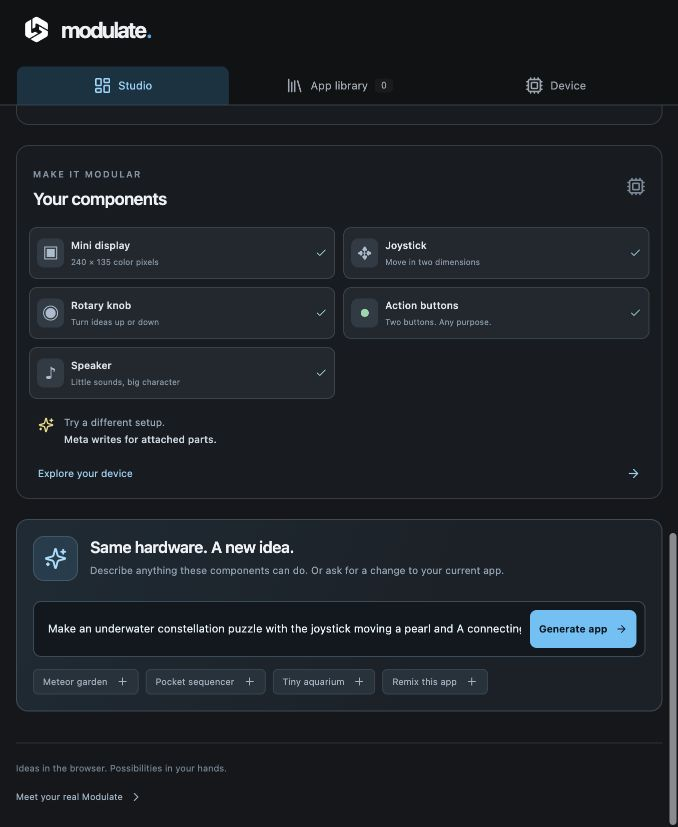
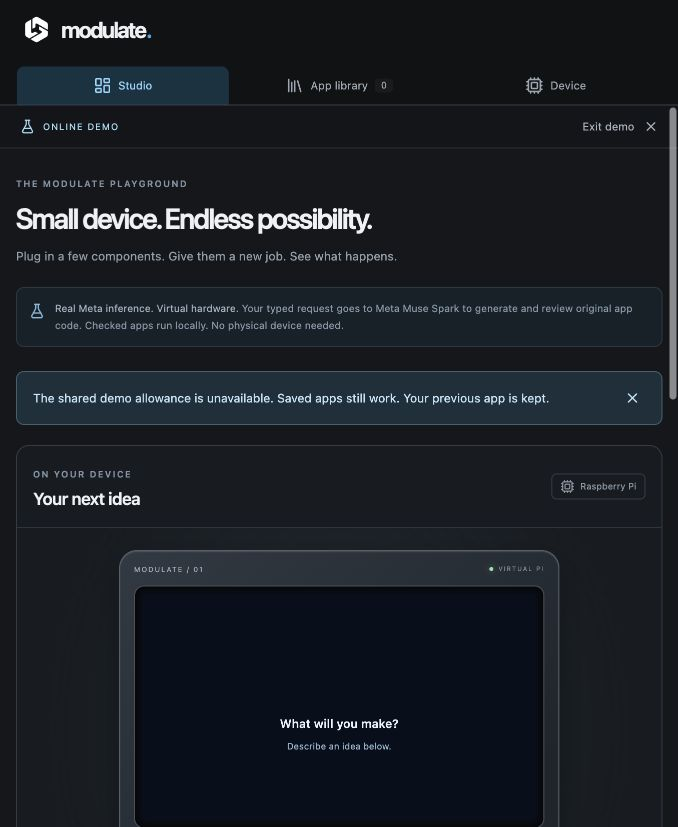
Record preview build and live verification blocker

diff --git a/context/build-log.md b/context/build-log.md
@@ -1272,3 +1272,9 @@ assets retained. Original protocol adapter, generation/check/review loop, durabl
 allowance, session layer and UI integration authored during this change. Test app
 fixtures are handwritten verification inputs, not production presets. No new
 third-party game art, generated promotional assets or physical evidence.
+
+
+Implementation `8d4552a` was pushed to `codex/online-demo`. Vercel preview
+`dpl_B5wr8CsWM16fQg8ELVNQVtpNPkt8` reached READY for that exact commit. This
+confirms the hosted build, not live inference; production promotion remains
+pending the Pi allocation and a real generated-app trial.
